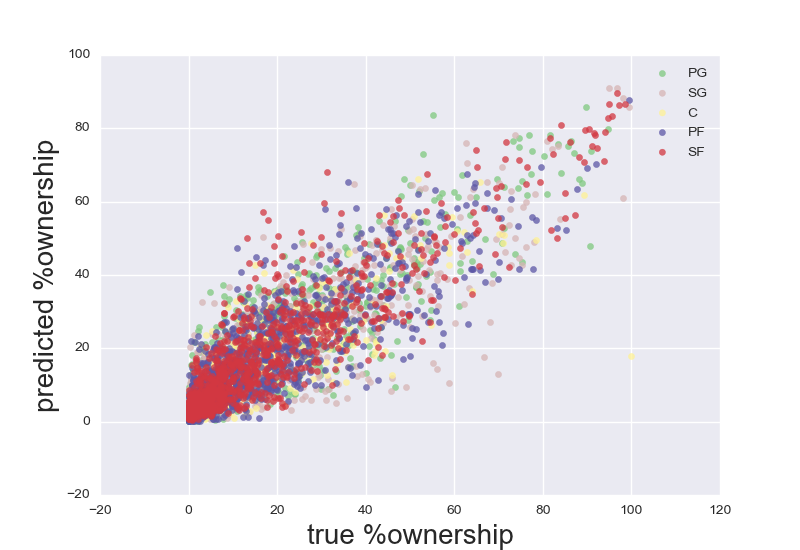
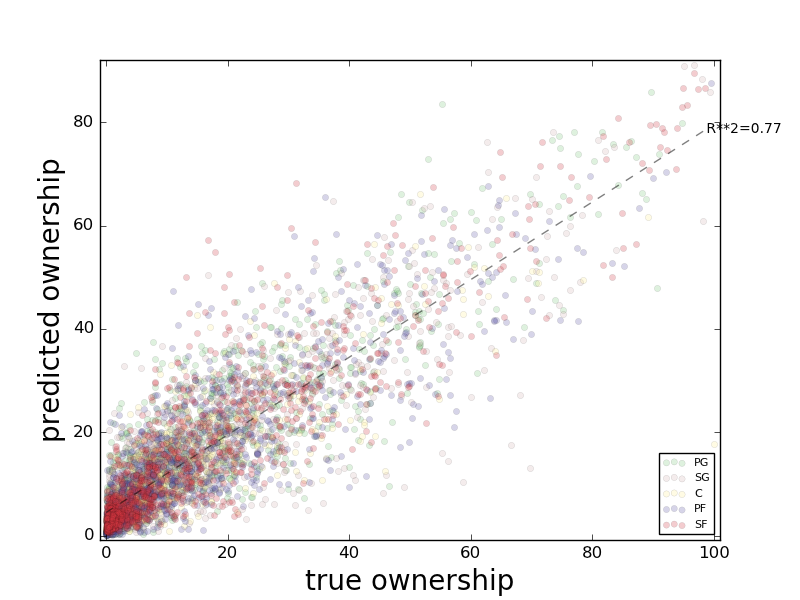
edits to readme

diff --git a/ANALYSIS/SLATES/slates.py b/ANALYSIS/SLATES/slates.py
@@ -3,7 +3,6 @@ import numpy as np
 import matplotlib.pyplot as plt
 import sys
 import glob
-import seaborn as sns
 from scipy import stats
 
 
@@ -73,12 +72,25 @@ def plot_model(df=None,model=None,ttype=None):
 	for i,X in enumerate(posl): 
 		plt.scatter(df.loc[df.position==X].true.values.tolist(),
 				df.loc[df.position==X][model].values.tolist(),
-				color=cmap(i / float(len(posl))    ),label=posl[i] ,alpha=0.75)
-	plt.legend()
+				color=cmap(i / float(len(posl))    ),label=posl[i] ,alpha=0.25,edgecolor='black',lw=0.2)
+	plt.legend(  prop={'size':8},loc='lower right' )
 	mod_dict = {'RandomForestRegressor':'rfr','Lasso':'Lasso','Ridge':'ridge','GradientBoostingRegressor':'gbr','mean':'mean'}
 	#plt.title('model='+model,size=20)
-	plt.ylabel('predicted %ownership',size=20)
-	plt.xlabel('true %ownership',size=20)
+
+	x = df['true'].values.tolist()
+	y = df[model].values.tolist() 
+	slope, intercept, r_value, p_value, std_err = stats.linregress(x,y)
+	plX = np.arange(np.min(x),np.max(x))
+	plY = intercept+slope*plX
+
+	plt.plot(plX,plY,linestyle='--',alpha=0.5,color='black')
+	plt.text(np.max(plX)-1,np.max(plY)-1,' R**2='+ str(round(r_value**2,2)),size=10)
+
+
+	plt.xlim([np.min(x)-1,np.max(x)+1])
+	plt.ylim([np.min(y)-1,np.max(y)+1])
+	plt.ylabel('predicted ownership',size=20)
+	plt.xlabel('true ownership',size=20)
 	plt.savefig('jan.'+model+'.'+ttype+'.png')
 	plt.clf()
 
@@ -86,7 +98,7 @@ def plot_model(df=None,model=None,ttype=None):
 def plot_slate_pos_error(posdf=None,model_err=None,do_norm=None,ttype=None):
 	posl = ['PG','SG','C','PF','SF']
 	for pos in posl: plt.hist(posdf.loc[posdf.position==pos]['se_'+model_err],bins=25,label=pos,alpha=0.75)
-	plt.legend()
+	plt.legend(prop={'size':8} )
 	plt.xlabel('rmse ownership%/model='+model_err)
 	plt.savefig('rmse.jan.'+model_err+'.n.'+str(int(do_norm))+'.'+ttype+'.png')
 	plt.clf()
@@ -97,7 +109,7 @@ def plot_slate_pos_error_ratio(posdf=None,model_err=None,do_norm=None,ttype=None
 	posl = ['PG','SG','C','PF','SF']
 	posdf['se_ratio'] = posdf['se_'+model_err]/posdf['se_mean']
 	for pos in posl: plt.hist(posdf.loc[posdf.position==pos]['se_ratio'],bins=25,label=pos,alpha=0.75,normed=True)
-	plt.legend()
+	plt.legend(prop={'size':8})
 	plt.xlabel('rmse:std ownership%/model='+model_err)
 	plt.savefig('ratio.jan.'+model_err+'.n.'+str(int(do_norm))+'.'+ttype+'.png')
 
@@ -107,7 +119,7 @@ def load_test_composite(ttype=None):
 	return testdf[['name','position','score','contest_ID']].dropna()
 
 
-def plot_exp_pts(df=None,ttype=None,model=None):
+def plot_exp_pts(df=None,ttype=None,model=None,pthreshU = 500,pthreshL=0):
 	mod_dict = {'RandomForestRegressor':'rfr','Lasso':'Lasso','Ridge':'ridge','GradientBoostingRegressor':'gbr','mean':'mean'}
 	ctest = load_test_composite(ttype=ttype)
 	mdf = pd.merge(ctest,df)
@@ -120,9 +132,11 @@ def plot_exp_pts(df=None,ttype=None,model=None):
 		print 'doing CID=',cid
 		co_df = contest(df=mdf,name=cid)
 		true_mul.append(np.sum( 0.01*co_df['true']*co_df['score']))
-		mod_mul.append( np.sum( 0.01*co_df[model]*co_df['score']))
+		mod_mul.append(np.sum( 0.01*co_df[model]*co_df['score']))
 	sl_df['<true>'] = true_mul
 	sl_df['<'+model+'>'] = mod_mul
+	sl_df = sl_df.loc[sl_df['<true>']<=pthreshU]
+	sl_df = sl_df.loc[sl_df['<true>']>=pthreshL]
 	x = sl_df['<true>'].values.tolist(),
 	y = sl_df['<'+model+'>'].values.tolist()
 	
@@ -130,16 +144,19 @@ def plot_exp_pts(df=None,ttype=None,model=None):
 	plX = np.arange(np.min(x),np.max(x))
 	plY = intercept+slope*plX
 	
-	plt.scatter(x,y,color='red')
-	plt.plot(plX,plY)
+	plt.scatter(x,y,color='red',edgecolor='black')
+	plt.plot(plX,plY,linestyle='--',alpha=0.5)
 	
 
-	plt.title(' R2='+ str(round(r_value**2,2)),size=20)
+	#plt.title(' R2='+ str(round(r_value**2,2)),size=20)
 	#plt.title(mod_dict[model],size=20)
 
-	plt.xlabel('true       < contest score > ', size = 20)
-	plt.ylabel('predicted  < contest score > ', size=20)
-	plt.legend()
+	plt.text(np.max(plX)-10,np.max(plY)-10,' R**2='+ str(round(r_value**2,2)),size=10)
+	plt.xlabel('true <contest score> ', size = 20)
+	plt.ylabel('predicted <contest score> ', size = 20)
+	plt.xlim([np.min(x)-5,np.max(x)+5])
+	plt.ylim([np.min(y)-5,np.max(y)+5])
+	plt.legend(prop={'size':8})
 	plt.savefig('field.'+model+'.'+ttype+'.png')
 	plt.clf()
 
